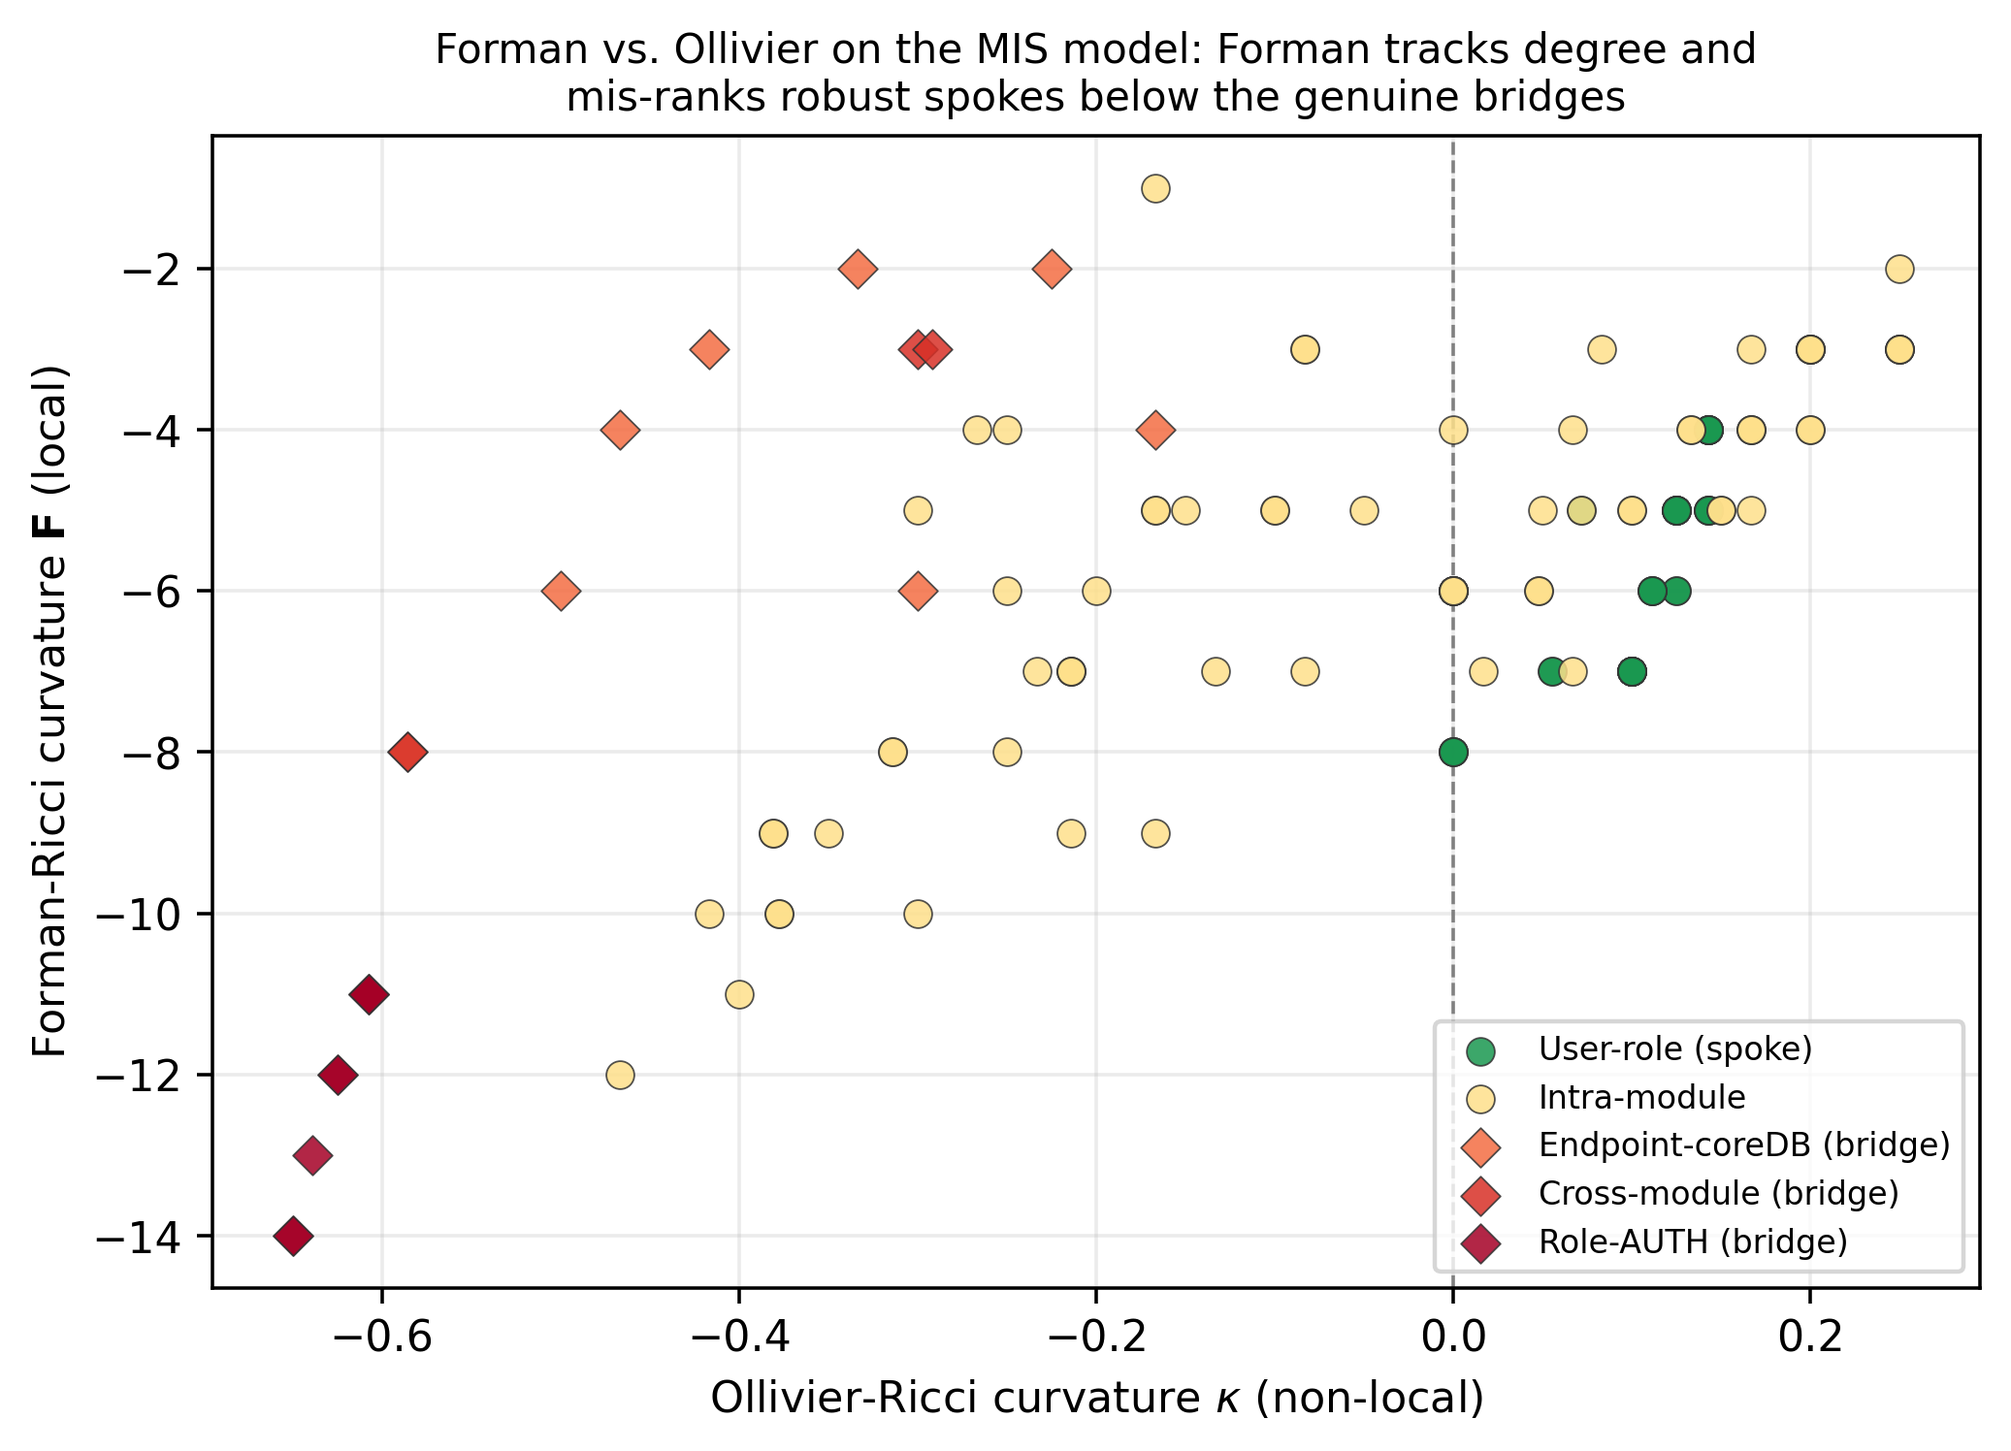
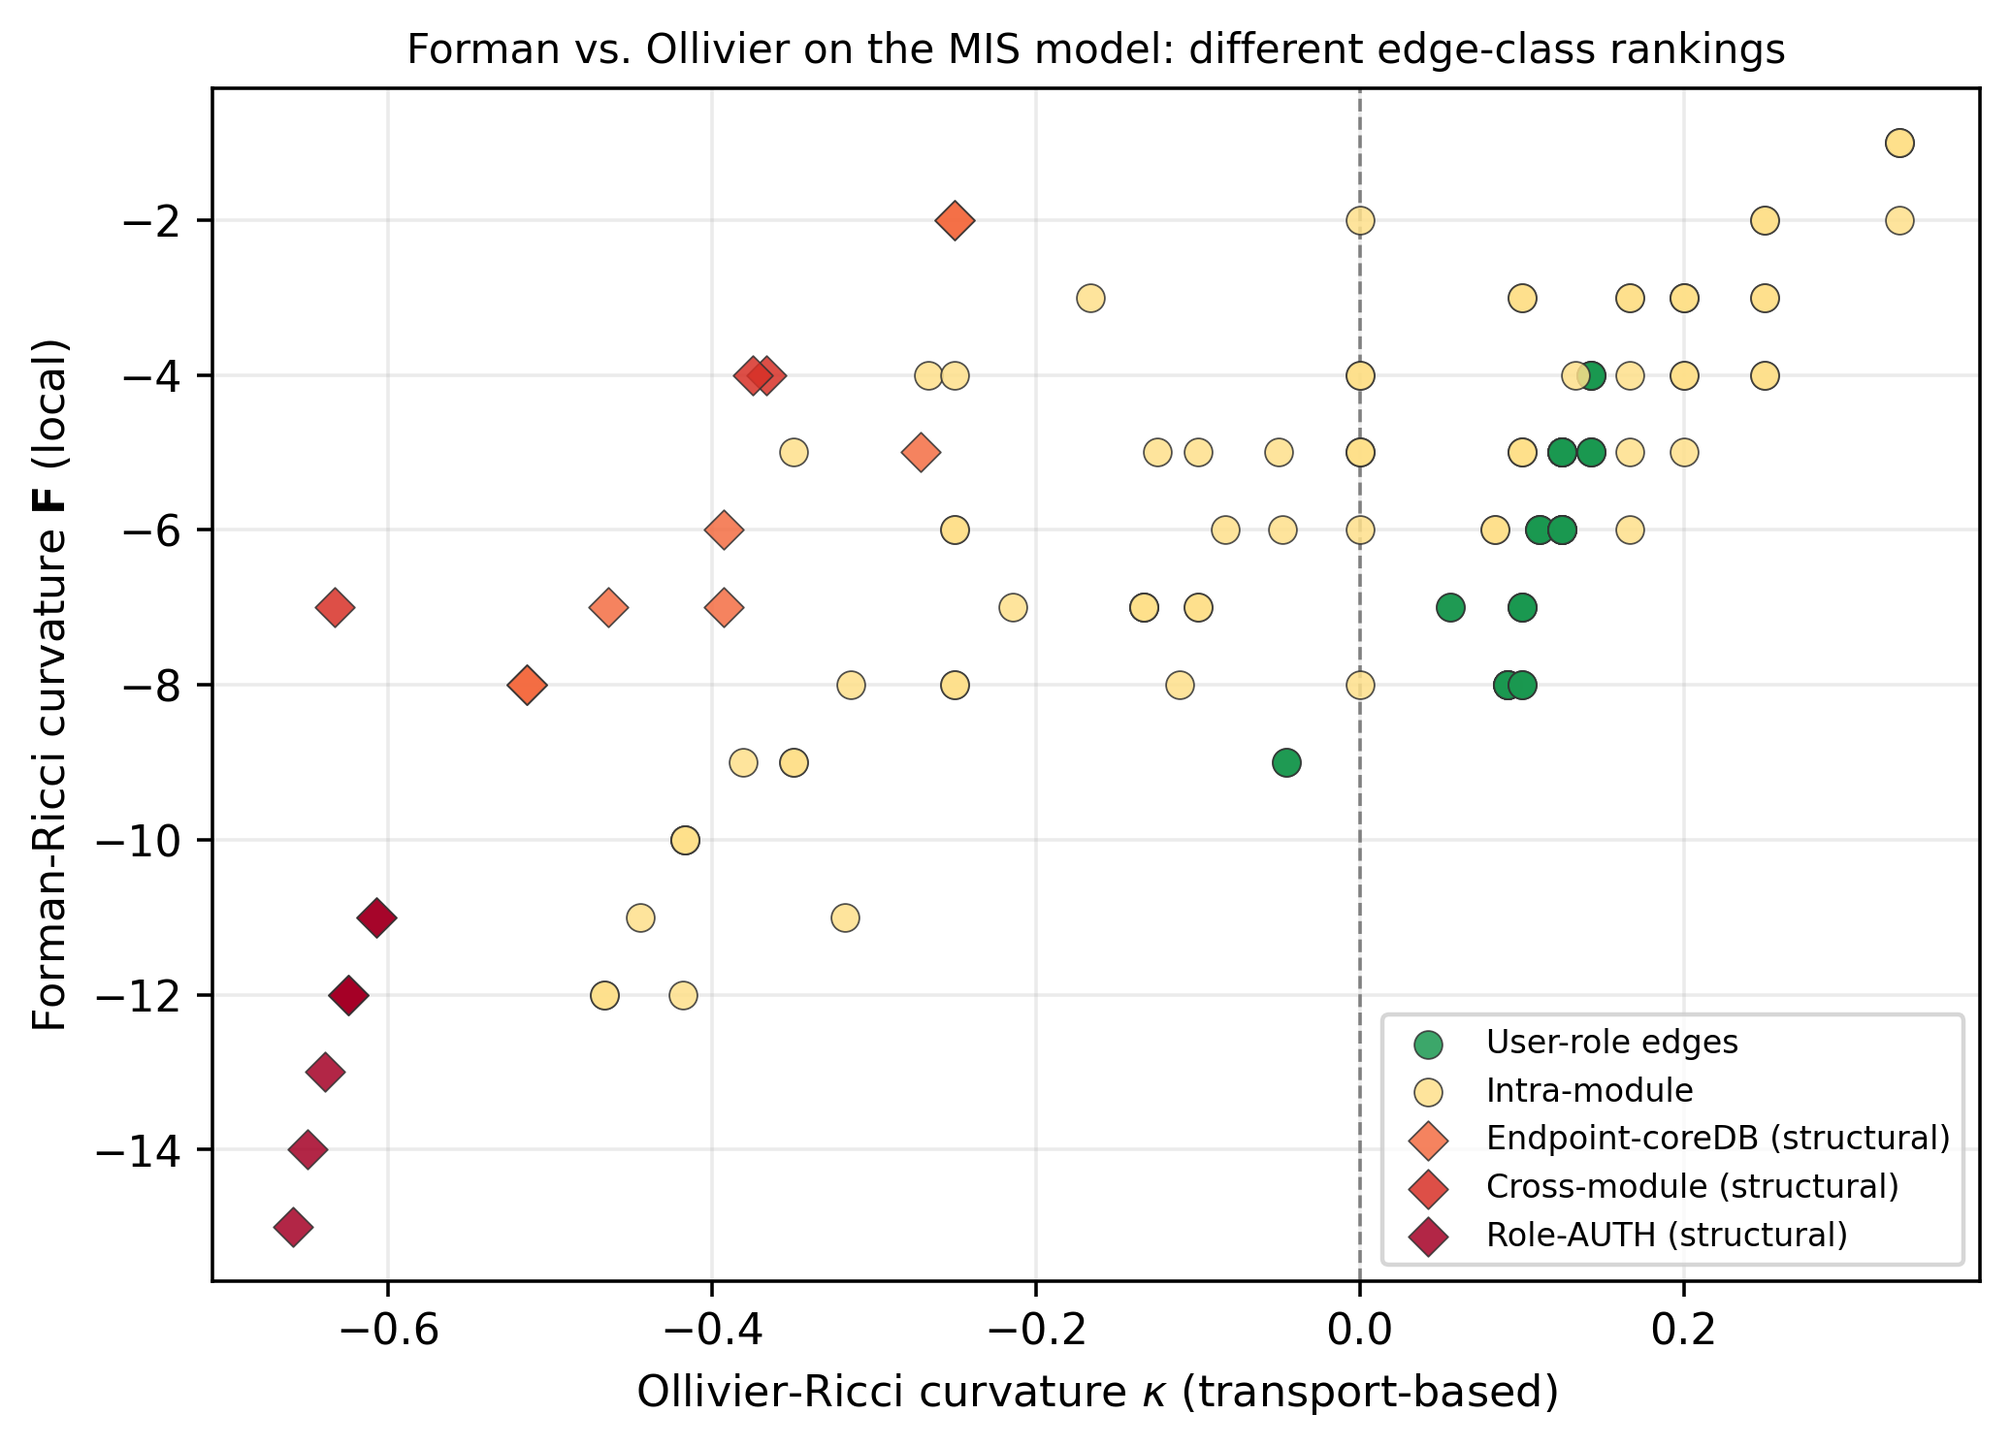
Correct final major-revision analyses
Fix distinct secondary-role sampling, refresh the main figures, calibrate structural-class labels, and add deterministic ranking ties plus quartile-based runtime error bars.

diff --git a/revision_experiments.py b/revision_experiments.py
@@ -6,7 +6,7 @@ This script adds:
 2. sensitivity to the lazy-random-walk parameter alpha;
 3. confidence intervals and paired non-parametric tests over 40 randomized
    MIS instances;
-4. external validation on five public communication-network topologies from
+4. external evaluation on five public communication-network topologies from
    the Internet Topology Zoo as distributed with Repetita; and
 5. comparisons with edge betweenness, Forman-Ricci curvature, local edge
    connectivity, algebraic-connectivity loss, and a spectral embedding.
@@ -195,6 +195,12 @@ def safe_spearman(x: list[float], y: list[float]) -> tuple[float, float]:
     return statistic, pvalue
 
 
+def edge_tie_key(edge: tuple[int, int]) -> tuple[int, int]:
+    """Canonical deterministic ordering for equal edge scores."""
+
+    return tuple(sorted(edge))
+
+
 def run_runtime_worker(payload: dict) -> None:
     modules = tuple(f"M{i + 1}" for i in range(payload["module_count"]))
     users = tuple(payload["users_per_module"] for _ in modules)
@@ -294,8 +300,12 @@ def runtime_scaling_experiment() -> list[dict]:
             "dmax": int(np.median([row["dmax"] for row in results])),
             "bmax": int(np.median([row["bmax"] for row in results])),
             "median_seconds": float(np.median(seconds)),
+            "q1_seconds": float(np.percentile(seconds, 25)),
+            "q3_seconds": float(np.percentile(seconds, 75)),
             "iqr_seconds": float(np.percentile(seconds, 75) - np.percentile(seconds, 25)),
             "median_peak_rss_mb": float(np.median(memory)),
+            "q1_peak_rss_mb": float(np.percentile(memory, 25)),
+            "q3_peak_rss_mb": float(np.percentile(memory, 75)),
             "iqr_peak_rss_mb": float(
                 np.percentile(memory, 75) - np.percentile(memory, 25)
             ),
@@ -331,8 +341,12 @@ def runtime_scaling_experiment() -> list[dict]:
             "dmax",
             "bmax",
             "median_seconds",
+            "q1_seconds",
+            "q3_seconds",
             "iqr_seconds",
             "median_peak_rss_mb",
+            "q1_peak_rss_mb",
+            "q3_peak_rss_mb",
             "iqr_peak_rss_mb",
         ],
         summary_rows,
@@ -360,12 +374,21 @@ def runtime_scaling_experiment() -> list[dict]:
     plt.rcParams.update({"font.size": 9, "axes.titlesize": 10})
     fig, axes = plt.subplots(1, 2, figsize=(8.4, 3.7))
     node_counts = np.array([row["n"] for row in summary_rows])
-    time_iqr = np.array([row["iqr_seconds"] for row in summary_rows]) / 2
-    mem_iqr = np.array([row["iqr_peak_rss_mb"] for row in summary_rows]) / 2
+    time_q1 = np.array([row["q1_seconds"] for row in summary_rows])
+    time_q3 = np.array([row["q3_seconds"] for row in summary_rows])
+    time_errors = np.vstack((times - time_q1, time_q3 - times))
+    median_memory = np.array(
+        [row["median_peak_rss_mb"] for row in summary_rows]
+    )
+    memory_q1 = np.array([row["q1_peak_rss_mb"] for row in summary_rows])
+    memory_q3 = np.array([row["q3_peak_rss_mb"] for row in summary_rows])
+    memory_errors = np.vstack(
+        (median_memory - memory_q1, memory_q3 - median_memory)
+    )
     axes[0].errorbar(
         node_counts,
         times,
-        yerr=time_iqr,
+        yerr=time_errors,
         marker="o",
         color="#2166ac",
         capsize=3,
@@ -377,8 +400,8 @@ def runtime_scaling_experiment() -> list[dict]:
     axes[0].grid(alpha=0.25)
     axes[1].errorbar(
         node_counts,
-        [row["median_peak_rss_mb"] for row in summary_rows],
-        yerr=mem_iqr,
+        median_memory,
+        yerr=memory_errors,
         marker="s",
         color="#b2182b",
         capsize=3,
@@ -409,7 +432,13 @@ def alpha_sensitivity_experiment() -> list[dict]:
     reference = [curvature_by_alpha[0.5][edge] for edge in edges]
     reference_top = {
         edge
-        for edge in sorted(edges, key=lambda edge: curvature_by_alpha[0.5][edge])[
+        for edge in sorted(
+            edges,
+            key=lambda edge: (
+                curvature_by_alpha[0.5][edge],
+                edge_tie_key(edge),
+            ),
+        )[
             : max(5, math.ceil(0.10 * len(edges)))
         ]
     }
@@ -421,7 +450,11 @@ def alpha_sensitivity_experiment() -> list[dict]:
         top = {
             edge
             for edge in sorted(
-                edges, key=lambda edge: curvature_by_alpha[alpha][edge]
+                edges,
+                key=lambda edge: (
+                    curvature_by_alpha[alpha][edge],
+                    edge_tie_key(edge),
+                ),
             )[: len(reference_top)]
         }
         grouped = {edge_type: [] for edge_type in EDGE_TYPES}
@@ -433,7 +466,11 @@ def alpha_sensitivity_experiment() -> list[dict]:
             [
                 classify_mis_edge(graph, *edge) in BRIDGE_TYPES
                 for edge in sorted(
-                    edges, key=lambda edge: curvature_by_alpha[alpha][edge]
+                    edges,
+                    key=lambda edge: (
+                        curvature_by_alpha[alpha][edge],
+                        edge_tie_key(edge),
+                    ),
                 )[:5]
             ]
         )
@@ -539,7 +576,10 @@ def robustness_statistics_experiment() -> list[dict]:
             [betweenness[edge] for edge in graph.edges()],
         )
         rhos.append(rho)
-        top_five = sorted(graph.edges(), key=lambda edge: curvature[edge])[:5]
+        top_five = sorted(
+            graph.edges(),
+            key=lambda edge: (curvature[edge], edge_tie_key(edge)),
+        )[:5]
         top5_precisions.append(
             np.mean(
                 [
@@ -689,25 +729,34 @@ def external_validation_experiment() -> list[dict]:
         )
 
         top_count = max(1, math.ceil(0.15 * len(edges)))
-        negative_top = set(sorted(edges, key=lambda edge: curvature[edge])[:top_count])
+        negative_top = set(
+            sorted(
+                edges,
+                key=lambda edge: (curvature[edge], edge_tie_key(edge)),
+            )[:top_count]
+        )
         metric_top_sets = {
             "betweenness": set(
-                sorted(edges, key=lambda edge: betweenness_map[edge], reverse=True)[
-                    :top_count
-                ]
+                sorted(
+                    edges,
+                    key=lambda edge: (
+                        -betweenness_map[edge],
+                        edge_tie_key(edge),
+                    ),
+                )[:top_count]
             ),
             "lambda2": set(
                 edge
                 for _, edge in sorted(
-                    zip(lambda2_loss, edges), key=lambda pair: pair[0], reverse=True
+                    zip(lambda2_loss, edges),
+                    key=lambda pair: (-pair[0], edge_tie_key(pair[1])),
                 )[:top_count]
             ),
             "embedding": set(
                 edge
                 for _, edge in sorted(
                     zip(embedding_distance, edges),
-                    key=lambda pair: pair[0],
-                    reverse=True,
+                    key=lambda pair: (-pair[0], edge_tie_key(pair[1])),
                 )[:top_count]
             ),
         }

diff --git a/reproduce_mis.py b/reproduce_mis.py
@@ -38,7 +38,10 @@ def main():
 
     print(f"Network: {G.number_of_nodes()} nodes, {G.number_of_edges()} edges, "
           f"layers={dict(Counter(L.values()))}")
-    rows = sorted(((curv[e], e[0], e[1], etype(*e)) for e in G.edges()), key=lambda r: r[0])
+    rows = sorted(
+        ((curv[e], e[0], e[1], etype(*e)) for e in G.edges()),
+        key=lambda r: (r[0], str(r[1]), str(r[2])),
+    )
     print("\nTable 1 (top-6 most negative):")
     for i, (k, u, v, t) in enumerate(rows[:6], 1):
         print(f"  {i}. {k:+.3f}  [{t}]  {u} -- {v}")
@@ -82,7 +85,7 @@ def main():
     for i, t in enumerate(order):
         ax.scatter(byt[t], np.full(len(byt[t]), i+1)+jitter_rng.uniform(-.12,.12,len(byt[t])), s=14, color="#222", alpha=.5, zorder=3)
     ax.axvline(0, color="gray", ls="--", lw=.8); ax.set_yticks(range(1,6))
-    ax.set_yticklabels(["user-role\n(spoke)","intra-module","cross-module\n(bridge)","endpoint-coreDB\n(bridge)","role-AUTH\n(bridge)"], fontsize=8)
+    ax.set_yticklabels(["user-role\nedges","intra-module","cross-module\n(structural)","endpoint-coreDB\n(structural)","role-AUTH\n(structural)"], fontsize=8)
     ax.set_xlabel(r"Ollivier-Ricci curvature $\kappa$"); ax.grid(axis="x", alpha=.25)
     plt.tight_layout(); plt.savefig("mis_curvature_by_type.png", dpi=320, bbox_inches="tight"); plt.close()
 
@@ -90,8 +93,8 @@ def main():
     def isbridge(u, v): return etype(u, v) in ("role-AUTH","endpoint-coreDB","cross-module")
     br = np.array([isbridge(*e) for e in G.edges()])
     fig, ax = plt.subplots(figsize=(6.2, 4.4))
-    ax.scatter(b[~br], c[~br], s=24, color="#4393c3", edgecolors="#1a5276", linewidths=.3, label="module-internal edges", zorder=3)
-    ax.scatter(b[br], c[br], s=40, color="#d73027", edgecolors="#7b241c", linewidths=.4, marker="D", label="bridge edges", zorder=4)
+    ax.scatter(b[~br], c[~br], s=24, color="#4393c3", edgecolors="#1a5276", linewidths=.3, label="other edges", zorder=3)
+    ax.scatter(b[br], c[br], s=40, color="#d73027", edgecolors="#7b241c", linewidths=.4, marker="D", label="structural-bridge classes", zorder=4)
     ax.axhline(0, color="gray", ls="--", lw=.8)
     ax.set_xlabel("Edge betweenness centrality"); ax.set_ylabel(r"Ollivier-Ricci curvature $\kappa$")
     ax.set_title("Curvature vs. edge betweenness  (Spearman "+r"$\rho$"+f" = {rho:.2f})", fontsize=9.5)

diff --git a/forman_fig.py b/forman_fig.py
@@ -16,21 +16,20 @@ def etype(u,v):
     if "U" in t: return "user-role"
     return "intra-module"
 edges=list(G.edges())
-groups={"user-role":("#1a9850","o","User-role (spoke)"),
+groups={"user-role":("#1a9850","o","User-role edges"),
         "intra-module":("#fee08b","o","Intra-module"),
-        "endpoint-coreDB":("#f46d43","D","Endpoint-coreDB (bridge)"),
-        "cross-module":("#d73027","D","Cross-module (bridge)"),
-        "role-AUTH":("#a50026","D","Role-AUTH (bridge)")}
+        "endpoint-coreDB":("#f46d43","D","Endpoint-coreDB (structural)"),
+        "cross-module":("#d73027","D","Cross-module (structural)"),
+        "role-AUTH":("#a50026","D","Role-AUTH (structural)")}
 fig,ax=plt.subplots(figsize=(6.6,4.8))
 for g,(col,mk,lab) in groups.items():
     xs=[orc.G[u][v]["ricciCurvature"] for u,v in edges if etype(u,v)==g]
     ys=[forman(u,v) for u,v in edges if etype(u,v)==g]
     ax.scatter(xs,ys,c=col,marker=mk,s=42,edgecolors="#333",linewidths=0.4,label=lab,alpha=0.85,zorder=3)
 ax.axvline(0,color="gray",ls="--",lw=0.8)
-# shade the region where Forman misranks: spokes (x>0) sit BELOW (more negative) than bridges
-ax.set_xlabel(r"Ollivier-Ricci curvature $\kappa$ (non-local)")
+ax.set_xlabel(r"Ollivier-Ricci curvature $\kappa$ (transport-based)")
 ax.set_ylabel(r"Forman-Ricci curvature $\mathbf{F}$ (local)")
-ax.set_title("Forman vs. Ollivier on the MIS model: Forman tracks degree and\nmis-ranks robust spokes below the genuine bridges",fontsize=9.5)
+ax.set_title("Forman vs. Ollivier on the MIS model: different edge-class rankings",fontsize=9.5)
 ax.legend(fontsize=7.5,loc="lower right"); ax.grid(alpha=0.25,zorder=0)
 plt.tight_layout(); plt.savefig("forman_vs_ollivier.png",dpi=320,bbox_inches="tight"); plt.close()
 print("figure written")

diff --git a/mis_model.py b/mis_model.py
@@ -12,9 +12,10 @@ Node layers (typed):
 
 Edges encode transactions/authorisation/queries between adjacent layers,
 plus the shared-infrastructure links (role->AUTH, endpoint->CORE) and a few
-cross-module integration links. The shared hubs (AUTH, CORE) and the
-cross-module links are the structural BRIDGES; everything inside a business
-module forms a comparatively dense community.
+cross-module integration links. The shared-hub and cross-module links define
+the model's structural-bridge classes; this label does not imply that every
+such edge is a graph-theoretic cut edge. Everything inside a business module
+forms a comparatively dense community.
 """
 import numpy as np, networkx as nx
 
@@ -51,9 +52,11 @@ def generate_mis(modules=("Sales","HR","Finance","Inventory"),
         # users -> role(s)  (hub-and-spoke at the role)
         for u in range(nu):
             un=f"U:{m}:{u}"; add(un,"U",m)
-            G.add_edge(un, rng.choice(roles))
+            primary_role = rng.choice(roles)
+            G.add_edge(un, primary_role)
             if rng.random()<p_second_role and roles_per_module>1:
-                G.add_edge(un, rng.choice(roles))
+                secondary_roles = [role for role in roles if role != primary_role]
+                G.add_edge(un, rng.choice(secondary_roles))
         # role -> AUTH  (every role authenticates centrally  => AUTH is a hub/bridge)
         for r in roles: G.add_edge(r,"AUTH")
         # role -> app servers (access grants)

diff --git a/README.md b/README.md
@@ -10,7 +10,7 @@ Management Information System (MIS) transaction networks, together with the
 scripts that compute discrete **Ollivier-Ricci** curvature, **Forman-Ricci**
 curvature, **edge betweenness**, connectivity and spectral comparators. It also
 reproduces the randomized robustness, parameter-sensitivity, scaling, and
-external-validation analyses added during peer review.
+external-evaluation analyses added during peer review.
 
 ## Main result
 
@@ -23,9 +23,10 @@ instances, Ollivier-Ricci curvature separates:
   endpoint→shared core DB, and cross-module links), which have strongly
   negative curvature in the generated model.
 
-This sign separation is proved in closed form (Lemma 1 and Theorem 1 of the
-paper) and confirmed empirically here on a typed MIS model, across 40 randomized
-instances. External communication-backbone experiments compare curvature with
+The two canonical structures are analyzed in closed form (Lemma 1 and Theorem 1
+of the paper), and the corresponding edge classes are evaluated empirically on
+a typed MIS model across 40 randomized instances. External
+communication-backbone experiments compare curvature with
 edge betweenness, Forman curvature, local edge connectivity,
 algebraic-connectivity loss, and a normalized-Laplacian embedding. Negative
 curvature is a transport-neighborhood divergence signal; it is not claimed to
@@ -42,8 +43,9 @@ source venv/bin/activate        # on Windows: venv\Scripts\activate
 pip install -r requirements.txt
 ```
 
-> Note: `GraphRicciCurvature` pins `scipy < 1.14`; the exact versions in
-> `requirements.txt` reproduce the published numbers bit-for-bit.
+> Note: `GraphRicciCurvature` pins `scipy < 1.14`. The exact versions in
+> `requirements.txt` reproduce the deterministic graph and curvature analyses;
+> runtime and peak-memory measurements naturally depend on the host system.
 
 ## Usage
 
@@ -56,9 +58,9 @@ All scripts are deterministic (fixed seeds) and import the generator from
 | `python multigraph.py` | Robustness across 40 randomized instances (Table 3, Section 5.4) |
 | `python forman_compare.py` | Forman vs. Ollivier comparison statistics (Section 5.3) |
 | `python forman_fig.py` | Figure 4 (Forman vs. Ollivier scatter) |
-| `python revision_experiments.py` | Alpha sensitivity, 40-run inferential statistics, scaling measurements, public-backbone validation, Tables 3–6, and Figures 5–7 |
+| `python revision_experiments.py` | Alpha sensitivity, 40-run inferential statistics, scaling measurements, public-backbone evaluation, Tables 3–6, and Figures 5–7 |
 
-The revision outputs are written to `revision_outputs/`. External validation
+The revision outputs are written to `revision_outputs/`. External evaluation
 expects the Repetita checkout at `../external/Repetita/` relative to this
 repository. The paper records the analyzed Repetita commit.
 
@@ -86,7 +88,10 @@ application→endpoint calls, endpoint→table queries, endpoint→core-DB acces
 a few cross-module integration links. Each business module forms a dense
 community; the shared hubs and cross-module links form the sparse bridges. All
 parameters (module count, users per module, access probabilities, seed) are
-arguments of `generate_mis()`.
+arguments of `generate_mis()`. Every user receives one primary role; when the
+secondary-role trial succeeds, the second role is drawn from the remaining
+roles, so `p_second_role` is the probability of a genuinely distinct secondary
+assignment.
 
 ## Citation
 
